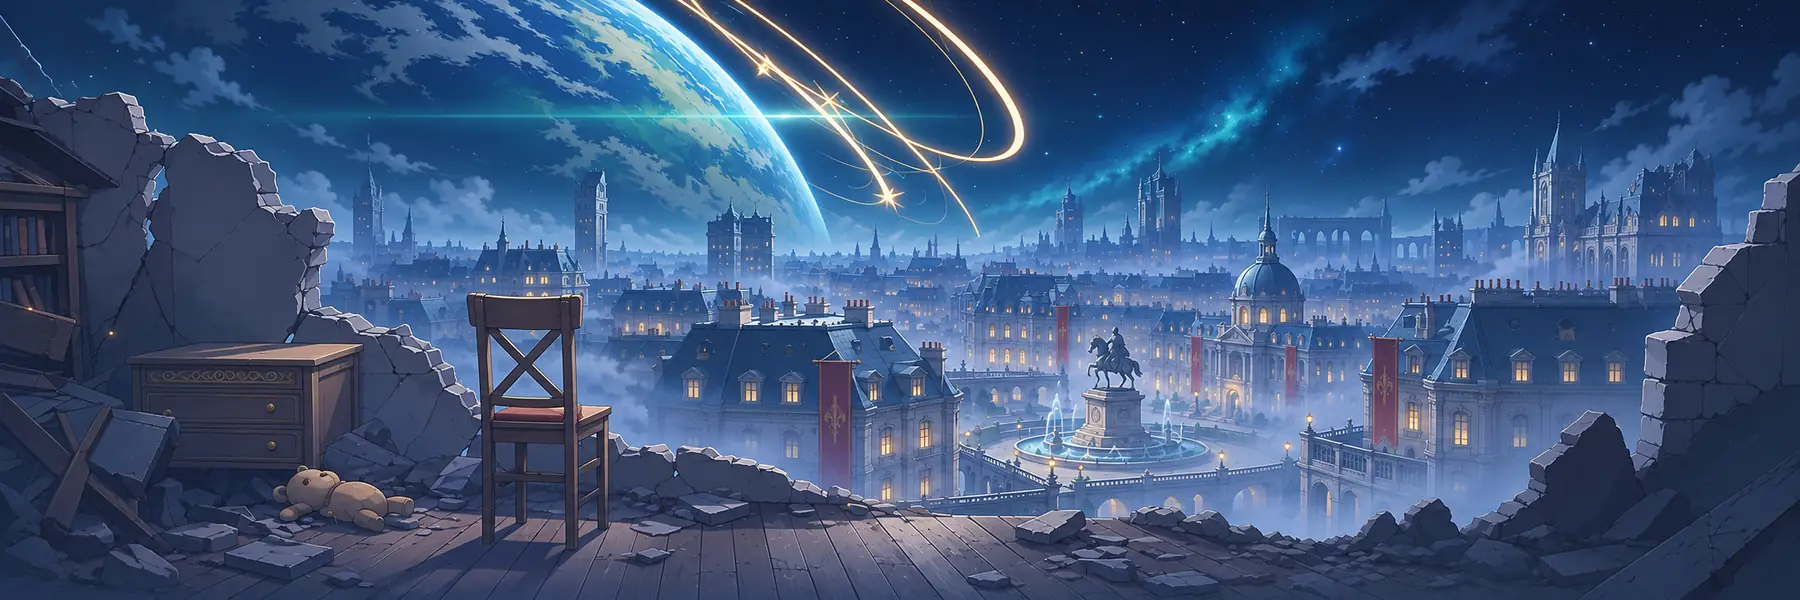
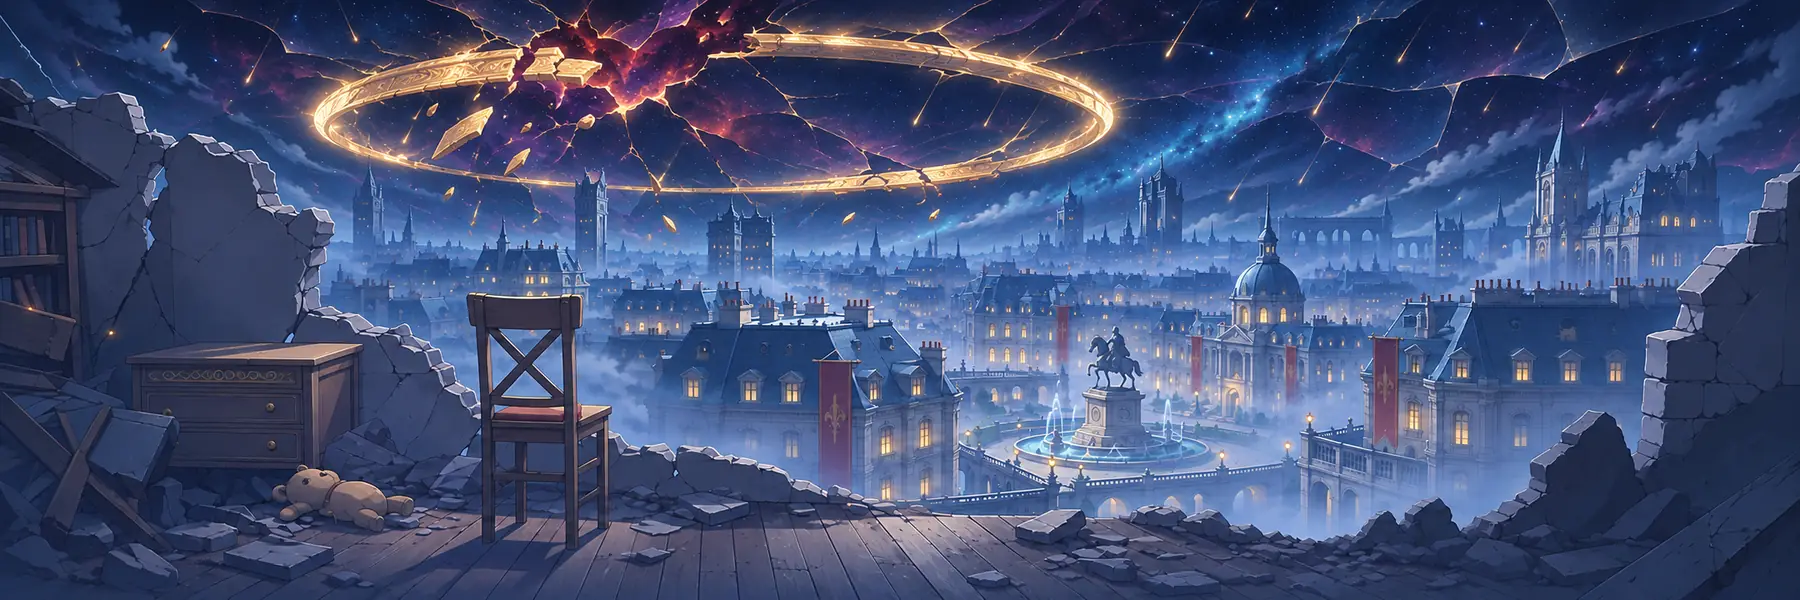
fix(art): 강제 탐색 배경 — 행성 제거, 깨지는 방패 고리와 멸망하는 하늘

diff --git a/forced.css b/forced.css
@@ -19,8 +19,8 @@ body.is-forced{--r-panel:0;--r-box:0;--r-ctl:0;--brass:var(--fx-red);--line:#4a2
  background:radial-gradient(circle at 12% 22%,#fff 0 1px,transparent 1.6px),radial-gradient(circle at 31% 9%,#cfe6ff 0 1px,transparent 1.7px),radial-gradient(circle at 54% 27%,#fff 0 .9px,transparent 1.5px),radial-gradient(circle at 73% 12%,#ffe9b0 0 1.1px,transparent 1.8px),radial-gradient(circle at 90% 31%,#fff 0 1px,transparent 1.6px),
   linear-gradient(180deg,#030a2c,#0b2a6e 38%,#3a3f8f 62%,#5a4a8e 78%,#141433 79%,#0a0c22)}
 [data-forced-art] .fx-scene .fx-bg{background:url(assets/forced/scene.webp) center/100% 100% no-repeat}
-/* 금빛 궤도 고리의 느린 일렁임 + 행성 가장자리 청록 빛 */
-[data-forced-art] .fx-scene .fx-glow{background:radial-gradient(ellipse 13% 30% at 49% 13%,rgba(255,214,140,.34),transparent 70%),radial-gradient(ellipse 16% 3% at 43% 19%,rgba(111,240,220,.4),transparent 75%);animation:fx-shimmer 10s steps(12) infinite}
+/* 깨지는 방패 고리의 파손부와 아래쪽 테두리 빛. 색·주기는 유지하고 원본 고리에 위치·크기만 맞춤 */
+[data-forced-art] .fx-scene .fx-glow{background:radial-gradient(ellipse 18% 18% at 33% 11%,rgba(255,214,140,.34),transparent 70%),radial-gradient(ellipse 20% 3% at 46% 30%,rgba(111,240,220,.4),transparent 75%);animation:fx-shimmer 10s steps(12) infinite}
 /* 뒷모습 그웬(gwen_back.webp — 그림을 바꿔 끼울 때는 이 파일만): 가까운 앞쪽 인물. 그림이 머리~허벅지까지라 발치는 띠 아래로 잘린 것처럼 보임.
    크기 = 띠 높이 × --fx-gs, 가로 자리 = --fx-gx(인물 가운데). 아래 끝은 띠 아래 끝보다 6px 밑(장면은 띠보다 커서 42% 지점을 기준으로 환산). 바람에 아주 살짝 흔들림 */
 [data-forced-art] .fx-scene .fx-gwen{inset:auto auto calc(42% - var(--fx-h)*.42 - 6px) var(--fx-gx);height:calc(var(--fx-h)*var(--fx-gs));aspect-ratio:271/520;translate:-50% 0;background:url(assets/forced/gwen_back.webp) center/contain no-repeat;transform-origin:50% 100%;
@@ -46,7 +46,7 @@ body.is-forced{--r-panel:0;--r-box:0;--r-ctl:0;--brass:var(--fx-red);--line:#4a2
 @media(min-width:1200px){.gwen-lane[data-alert]{--fx-h:300px}}
 @media(max-width:760px){.gwen-lane[data-alert]{--fx-h:190px;--fx-ar:1.44;--fx-x:50%;--fx-gx:82%}
  [data-forced-art] .fx-scene .fx-bg{background-image:url(assets/forced/scene_narrow.webp)}
- [data-forced-art] .fx-scene .fx-glow{background:radial-gradient(ellipse 26% 30% at 66% 13%,rgba(255,214,140,.34),transparent 70%),radial-gradient(ellipse 30% 3% at 54% 19%,rgba(111,240,220,.4),transparent 75%)}}
+ [data-forced-art] .fx-scene .fx-glow{background:radial-gradient(ellipse 37.5% 18% at 34.5% 11%,rgba(255,214,140,.34),transparent 70%),radial-gradient(ellipse 41.7% 3% at 61.6% 30%,rgba(111,240,220,.4),transparent 75%)}}
 
 /* 2. 진행 칸 → 관측 단말: 각진 틀·모서리 브래킷·위 상태줄·기록 줄. DOM 순서·단추 자리는 그대로 */
 .is-forced .progress[data-alert=scan]{position:relative;isolation:isolate;overflow:hidden;padding-top:34px;border:1px solid rgba(255,68,102,.55);border-radius:0;box-shadow:none;

diff --git a/docs/forced_art.md b/docs/forced_art.md
@@ -34,7 +34,8 @@ python -X utf8 tools/build_forced_art.py --gen-dir <원본 그림 폴더>
 ## 출처
 
 - codex 내장 image_gen 으로 만든 정식 그림(2026-11-23)임. 원본 PNG 는 저장소 밖에 보관함. «정식»은 사이트 채택본이라는 뜻이며 게임사의 공식 원화가 아닌 생성 팬 그림임. 원 캐릭터·디자인의 권리는 원 권리자에게 있음.
-- 배경은 기존 임시본의 구도를 참조했음. 뒷모습 그웬은 승인 등신대 `tools/gwen_art/masters5/st_point.webp`의 외형·화풍과 공식 카드 `assets/savior/gwen_art.webp`의 의상을 기준으로 했으며 임시본은 자세만 참조했음. 신분증은 `506b228^`의 옛 임시 사진을 직접 참조해 베레모·셔츠·넥타이·재킷을 갖춘 과거 모습으로 맞췄으며, 승인 등신대는 얼굴·화풍에만 참조했음.
-- 전체 프롬프트·참조 목록은 [forced_art_prompts.json](../tools/forced_art_prompts.json). 최초 4회에 이번 수정 2회(뒷모습 국소 편집·과거 신분증 각 1회, 재시도 없음)를 더해 누적 6회 생성했음. 알파 합성으로 배경 제거를 확인했으며 미세 잡음은 빌더에서 정리함.
-- 원본 크기는 배경 2172×724(3:1), 뒷모습 1024×1536 RGBA, 신분증 1254×1254임. 배포 4파일 합계 198,946바이트임. 기존 `NARROW`·`BACK_KEEP`·위치·표시 높이를 유지했음.
+- 배경은 `5e05a3f`의 채택 원본 `lavistar_ruin_bg_1.png`를 직접 참조해 하늘 위주로 편집했음. 행성·비스듬한 궤적을 없애고, 균열·금빛 파편·붉은 보라색 공허가 드러나는 방패 고리와 유리처럼 갈라지는 하늘을 넣었음. 폐허 실내·의자·작은 책상·곰인형·유럽풍 도시·기마상 광장 구도를 유지했음. 뒷모습 그웬은 승인 등신대 `tools/gwen_art/masters5/st_point.webp`의 외형·화풍과 공식 카드 `assets/savior/gwen_art.webp`의 의상을 기준으로 했으며 임시본은 자세만 참조했음. 신분증은 `506b228^`의 옛 임시 사진을 직접 참조해 베레모·셔츠·넥타이·재킷을 갖춘 과거 모습으로 맞췄으며, 승인 등신대는 얼굴·화풍에만 참조했음.
+- 전체 프롬프트·참조 목록은 [forced_art_prompts.json](../tools/forced_art_prompts.json). 최초 4회·그웬 수정 2회에 이번 하늘 편집 1회(재시도 없음)를 더해 누적 7회 생성했음. 알파 합성으로 배경 제거를 확인했으며 미세 잡음은 빌더에서 정리함.
+- 원본 크기는 배경 2172×724(3:1), 뒷모습 1024×1536 RGBA, 신분증 1254×1254임. 배포 배경은 넓은 화면 120,884바이트·좁은 화면 65,180바이트, 4파일 합계 222,732바이트임. 기존 `NARROW`·`BACK_KEEP`·인물 위치·표시 높이를 유지했음.
 - PM 검수 수정(2026-11-23): 내장 image_gen 국소 편집으로 왼쪽 귀걸이를 지웠고, 옛 신분증을 직접 참조해 과거 복장·낡은 흑백 사진 질감을 복원했음. 이전 원본은 `*_v1.png`로 보관하고 `compare.png`·`layout_review.png`를 다시 만들었음.
+- 하늘 재검수(2026-11-23): 이전 배경 원본은 `lavistar_ruin_bg_v1.png`로 보관했음. 고리 범위는 원본 기준 대략 가로 18~62%·세로 5~32%, 중심 40%·19%이며, 큰 파손부는 가로 28~41%·세로 0~19%임. `forced.css`의 빛 두 겹은 위치·크기만 고리 파손부와 아래쪽 테두리로 옮겼음(색·불투명도·움직임 주기 유지). `compare.png`·`layout_review.png`는 왼쪽 `5e05a3f` / 오른쪽 새 그림으로 갱신했음. 정지 배치 검수는 1200·600·360px이며, 기존 600×190 배치의 세로 크롭에서는 고리 대부분이 잘림. 배경 비율·장면 위치를 유지하라는 범위에 따라 크롭은 바꾸지 않았음. 검수 시트는 움직임·빛·안개를 제외한 배치 확인용임.

diff --git a/docs/HISTORY.md b/docs/HISTORY.md
@@ -1,3 +1,12 @@
+## 2026-11-23 — 강제 탐색 배경의 행성 제거·깨지는 방패 고리
+
+`5e05a3f` 채택 배경 PNG를 직접 참조해 내장 image_gen으로 하늘을 편집했음. 1회 생성, 재시도 없음. 행성과 비스듬한 궤적을 없애고, 금빛 방패 고리의 균열·떨어지는 파편·붉은 보라색 공허·유리처럼 갈라지는 하늘을 넣었음.
+
+- 3:1 원본과 폐허 실내의 의자·책상·곰인형, 안개 낀 유럽풍 도시·기마상 광장, 오른쪽 인물 자리를 유지했음. 고리는 원본 기준 대략 가로 18~62%·세로 5~32%임. `forced.css`는 넓은/좁은 화면의 빛 두 겹 위치·크기만 맞췄고 색·불투명도·움직임은 유지했음.
+- 이전 원본을 `lavistar_ruin_bg_v1.png`로 보관했음. 배경 WebP 두 장을 다시 만들었으며 그웬 두 그림은 `5e05a3f`와 바이트 동일함. 원본 배경 2,454,613바이트, 배포 4파일 합계 222,732바이트임.
+- 프롬프트·출처·현재 상태를 갱신하고, `compare.png`·`layout_review.png`를 왼쪽 `5e05a3f` / 오른쪽 새 그림으로 다시 만들었음. 1200·600·360px 정지 배치를 확인했음. 기존 600×190 배치는 하늘을 세로로 잘라 고리 대부분이 숨겨지는 한계가 있으며, 장면 배치는 요청 범위에 따라 유지했음.
+- 시험: 변경 전 `forced gwen` 16통과·0실패. 빌드 후 `forced_test.js`(변이 7건 포함) 통과, HTML 빌드 완료. 전체 실행은 270통과·3실패·환경상 대조 6건 건너뜀이었음. 전체와 선별 시험을 겹쳐 실행해 공유 그웬 자산을 저장하는 중에 읽은 경합이 원인이었음(빈 파일 해시·이미지 읽기 오류 확인). 두 실행 종료 후 `run_tests.py forced gwen`을 단독 실행해 16통과·0실패였으며 전체 실행의 실패 3건도 모두 통과했음. 그웬 자산의 최종 변경 없음과 CSS가 빛의 위치·크기만 바뀌었음을 확인했음.
+
 ## 2026-11-23 — 강제 탐색 그웬 귀걸이·과거 신분증 수정
 
 PM 검수에 따라 내장 image_gen으로 뒷모습의 청록색 술 귀걸이를 국소 편집해 지웠고, 신분증을 과거 모습으로 고쳤음. 각 1회, 총 2회 호출했으며 재시도는 없었음.

diff --git a/HANDOFF.md b/HANDOFF.md
@@ -4,6 +4,8 @@
 
 ## 현재 상태
 
+- **강제 탐색 배경**: 행성을 없애고 깨지는 금빛 방패 고리·공허·갈라진 하늘로 바꿨음. 전경·인물 배치와 좁은 화면용 가로 크롭은 유지하고 고리 빛의 위치·크기만 맞췄음. 출처·배치 검수의 한계·용량은 `docs/forced_art.md`, 생성 프롬프트는 `tools/forced_art_prompts.json`이 정본임.
+
 - **공략 사례 기준 탐색 검사(단계 ②)**: 표준 육성·전체 보유로 화면 탐색 정책(코스모 3보스·길드 찾기, 작전·회랑은 근사 후보)과 사례 편성을 같은 400판으로 재평가했음. «탐색이 놓침» 0건, 엔진 의심 0건임. 다만 표준 육성은 사례 단계에서 2~5턴 안에 전멸해 장기 운영 전술이 돌아가는 구간의 판정은 미확인이고, 작전·회랑 사례는 진행도 1% 미만이라 비교 불가였음. 강한 가정 육성으로 재검사하는 것이 다음 후보임. 정책·기본값 불변. 사례별 표·한계는 `docs/casebook_search_check.md`, 도구는 `tools/casebook_search_check.py`.
 
 - **공략 사례 18건 엔진 감사**: 사례별 동작·클라 근거·시험은 `docs/casebook_engine_check.md`. 몰락한 사념의 고정 속도 전달과 일반 속도 하한을 고쳤음. 규칙은 `battlesim/rules/default.json`의 `fixstats_speed_zero`·`speed_min`이 정본이며 legacy 유지. 공략의 수동 순서·그림 미확인 입력은 엔진 결함으로 세지 않음. 근거 줄 번호는 설치 26752678 DLL 10개와 일치하는 재추출본 기준이며 이 PC `E:\AI_mk2\decomp_26752678\casebook_1121\`에 보관함. 비공개 static-data 저장소의 `decompiled/`도 26752678판으로 갱신됨(static-data 62bb6b6, 2026-11-21).
